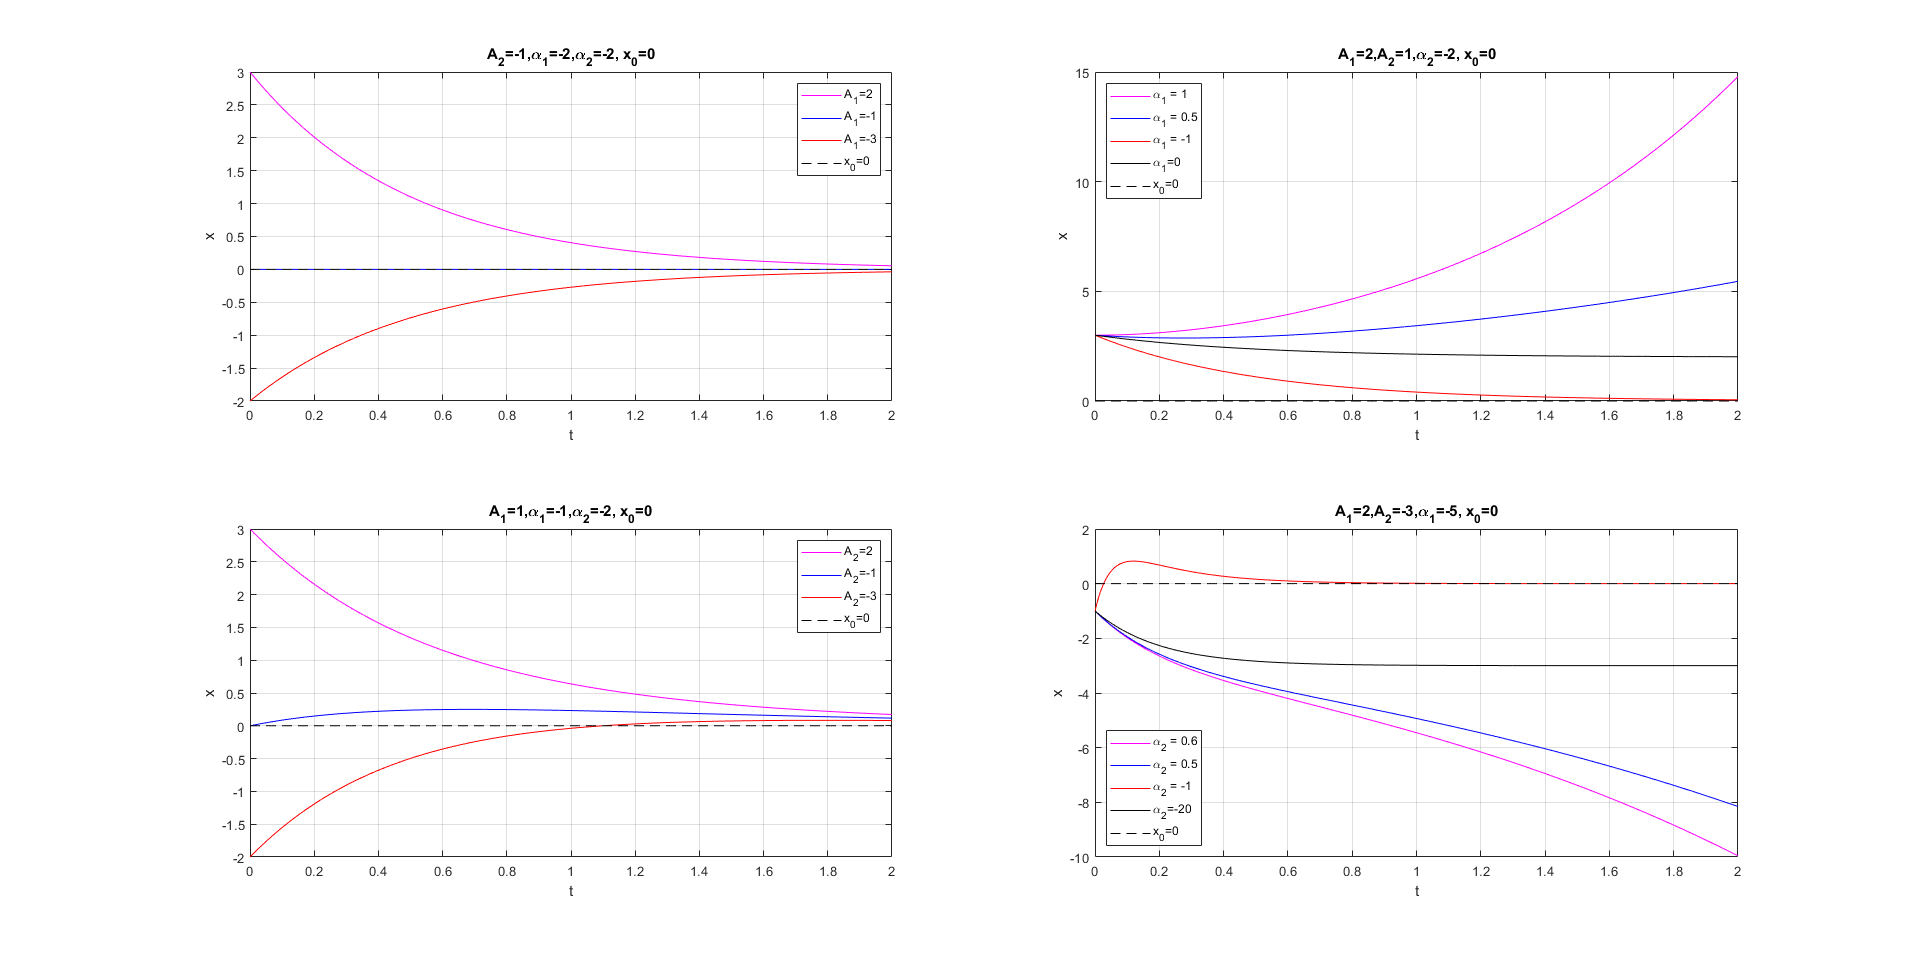
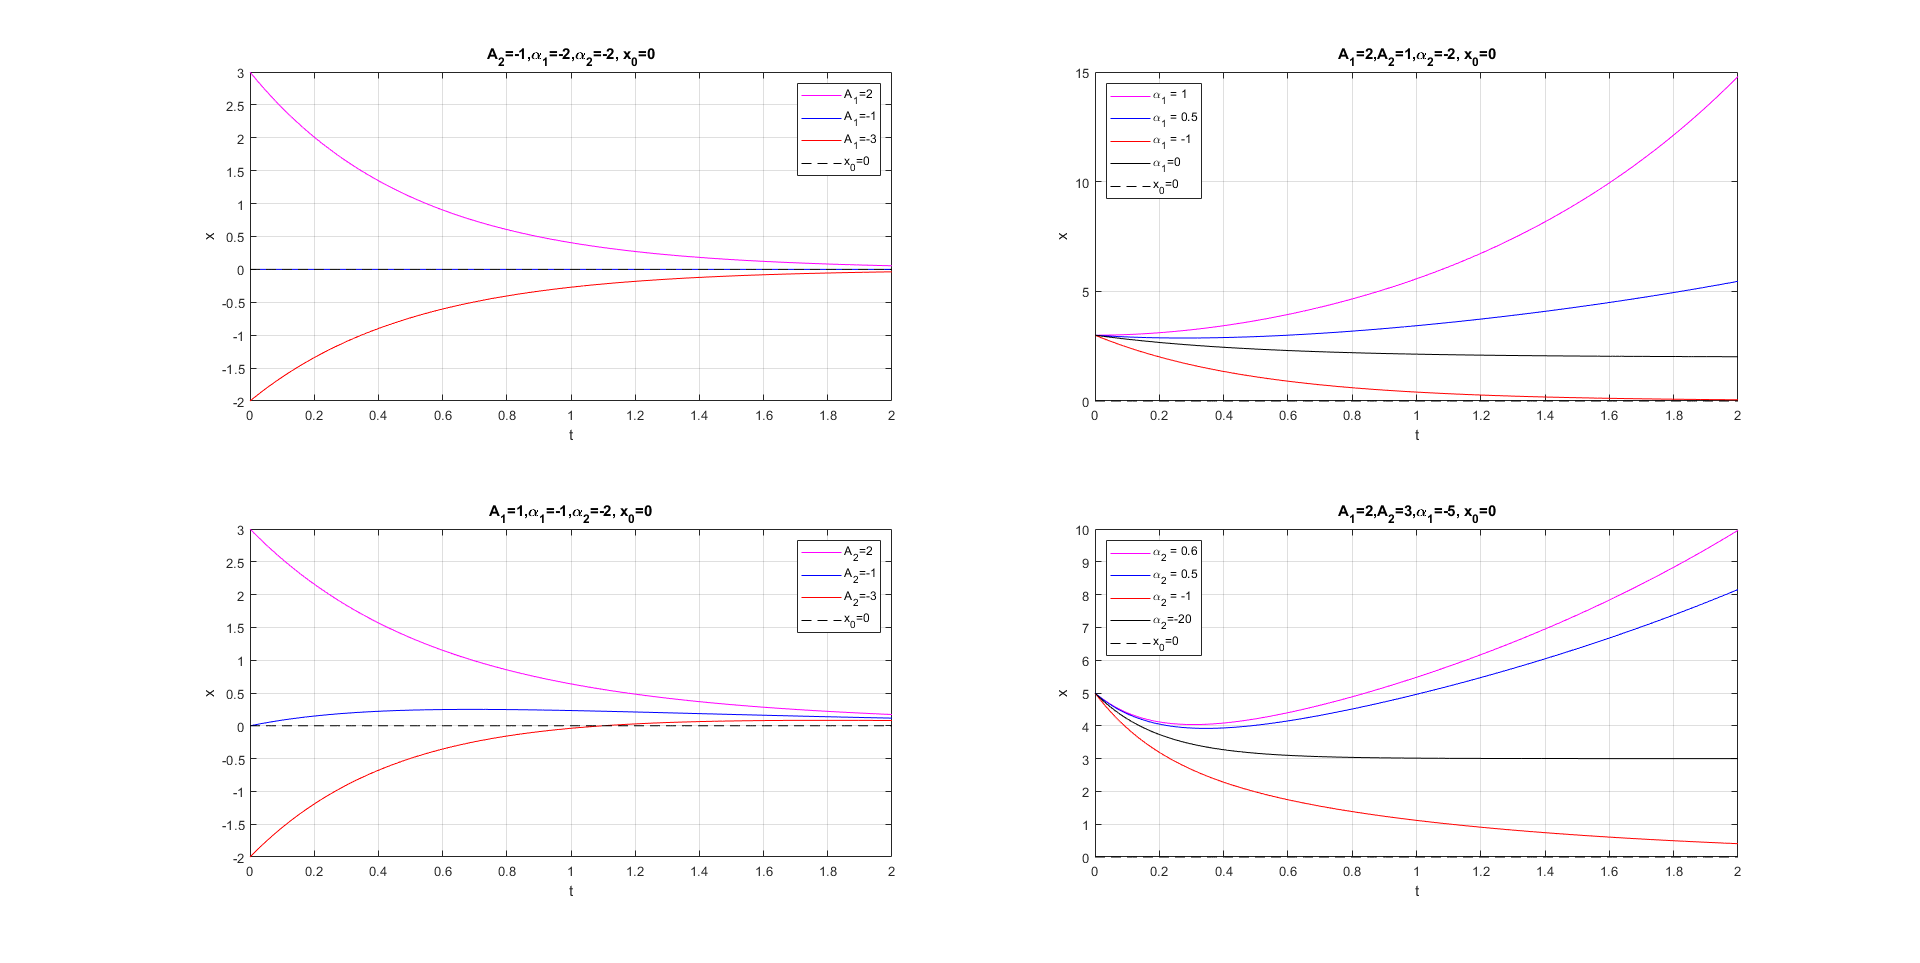
d skonczone

diff --git a/LAB4/Sprawko2/d_.m b/LAB4/Sprawko2/d_.m
@@ -1,0 +1,204 @@
+clear;
+close all;
+
+
+%x_sz=A1*exp(a1*t)+A2*exp(a2*t)*cos(wt+phi)+x0;
+x_sz=0:0.001:2;
+A1=1;
+A2=1;
+a1=-2;
+a2=-2;
+w=10;
+phi=0;
+t=0:0.001:2;
+xw=0;
+%Dla uproszczenie odczytywania wykresu xw=0
+
+
+
+
+
+
+%11111111111111111111111111111111111111111111111111
+
+%A1A1A1A1A1A1A1A1A1A1A1A1A1A1A1A1A1A1A1A1A1A1A1
+subplot(2,2,1);
+A1=2;
+w=40;
+for i=1:1:(length(t))
+    x_sz(i)=A1*exp(a1*t(i))+A2*exp(a2*t(i))*cos(w*t(i)+phi)+xw;
+end
+plot(t,x_sz,'m-');
+hold on;
+%%%%%%%%%%%%%%%%%%%%%%%%%%%%%%%%%%%%%%%%%%%%%%%%
+A1=-1;
+for i=1:1:(length(t))
+    x_sz(i)=A1*exp(a1*t(i))+A2*exp(a2*t(i))*cos(w*t(i)+phi)+xw;
+end
+plot(t,x_sz,'b-');
+%%%%%%%%%%%%%%%%%%%%%%%%%%%%%%%%%%%%%%%%%%%%%%%%
+A1=-3;
+for i=1:1:(length(t))
+    x_sz(i)=A1*exp(a1*t(i))+A2*exp(a2*t(i))*cos(w*t(i)+phi)+xw;
+end
+plot(t,x_sz,'r-');
+%%%%%%%%%%%%%%%%%%%%%%%%%%%%%%%%%%%%%%%%%%%%%%%%
+A1=0;
+for i=1:1:(length(t))
+    x_sz(i)=xw;
+end
+plot(t,x_sz,'k--');
+%%%%%%%%%%%%%%%%%%%%%%%%%%%%%%%%%%%%%%%%%%%%%%%%
+title('A_{2}=-1,\alpha_{1}=-2,\alpha_{2}=-2,\omega=40,\phi=0, x_{0}=0');
+legend('A_{1}=2','A_{1}=-1','A_{1}=-3','x_{0}=0');
+xlabel('t');
+ylabel('x');
+grid on;
+%%%%%%%%%%%%%%%%%%%%%%%%%%%%%%%%%%%%%%%%%%%%%%%%
+
+
+
+%a1a1a1a1a1a1a1a1a1a1a1a1a1a1a1a1a1a1a1a1a1a1a1a
+subplot(2,2,2);
+A1=2;
+w=20;
+a1=1;
+for i=1:1:(length(t))
+    x_sz(i)=A1*exp(a1*t(i))+A2*exp(a2*t(i))*cos(w*t(i)+phi)+xw;
+end
+plot(t,x_sz,'m-');
+hold on;
+%%%%%%%%%%%%%%%%%%%%%%%%%%%%%%%%%%%%%%%%%%%%%%%%
+a1=0.5;
+for i=1:1:(length(t))
+    x_sz(i)=A1*exp(a1*t(i))+A2*exp(a2*t(i))*cos(w*t(i)+phi)+xw;
+end
+plot(t,x_sz,'b-');
+hold on;
+%%%%%%%%%%%%%%%%%%%%%%%%%%%%%%%%%%%%%%%%%%%%%%%%
+a1=-2;
+for i=1:1:(length(t))
+    x_sz(i)=A1*exp(a1*t(i))+A2*exp(a2*t(i))*cos(w*t(i)+phi)+xw;
+end
+plot(t,x_sz,'r-');
+%%%%%%%%%%%%%%%%%%%%%%%%%%%%%%%%%%%%%%%%%%%%%%%%
+a1=0;
+for i=1:1:(length(t))
+    x_sz(i)=A1*exp(a1*t(i))+A2*exp(a2*t(i))*cos(w*t(i)+phi)+xw;
+end
+plot(t,x_sz,'k-');
+%%%%%%%%%%%%%%%%%%%%%%%%%%%%%%%%%%%%%%%%%%%%%%%%
+A1=0;
+for i=1:1:(length(t))
+    x_sz(i)=xw;
+end
+plot(t,x_sz,'k--');
+title('A_{1}=2,A_{2}=1,\alpha_{2}=-2,\omega=20,\phi=0, x_{0}=0');
+legend({'\alpha_{1} = 1','\alpha_{1} = 0.5','\alpha_{1} = -1','\alpha_{1}=0','x_{0}=0'},'Location','northwest');
+xlabel('t');
+ylabel('x');
+grid on;
+%%%%%%%%%%%%%%%%%%%%%%%%%%%%%%%%%%%%%%%%%%%%%%%%
+
+w=10;
+
+
+
+%22222222222222222222222222222222222222222222222222
+
+%A2A2A2A2A2A2A2A2A2A2A2A2A2A2A2A2A2A2A2A2A2A2A2A2
+subplot(2,2,3);
+A1=1;
+a1=-1;
+A2=2;
+for i=1:1:(length(t))
+    x_sz(i)=A1*exp(a1*t(i))+A2*exp(a2*t(i))*cos(w*t(i)+phi)+xw;
+end
+plot(t,x_sz,'m-');
+hold on;
+%%%%%%%%%%%%%%%%%%%%%%%%%%%%%%%%%%%%%%%%%%%%%%%%
+A2=-1;
+for i=1:1:(length(t))
+    x_sz(i)=A1*exp(a1*t(i))+A2*exp(a2*t(i))*cos(w*t(i)+phi)+xw;
+end
+plot(t,x_sz,'b-');
+
+%%%%%%%%%%%%%%%%%%%%%%%%%%%%%%%%%%%%%%%%%%%%%%%%
+A2=-2;
+for i=1:1:(length(t))
+    x_sz(i)=A1*exp(a1*t(i))+A2*exp(a2*t(i))*cos(w*t(i)+phi)+xw;
+end
+plot(t,x_sz,'r-');
+%%%%%%%%%%%%%%%%%%%%%%%%%%%%%%%%%%%%%%%%%%%%%%%%
+for i=1:1:(length(t))
+    x_sz(i)=xw;
+end
+plot(t,x_sz,'k--');
+%%%%%%%%%%%%%%%%%%%%%%%%%%%%%%%%%%%%%%%%%%%%%%%%
+title('A_{1}=1,\alpha_{1}=-1,\alpha_{2}=-2,\omega=10,\phi=0, x_{0}=0');
+legend('A_{2}=2','A_{2}=-1','A_{2}=-2','x_{0}=0');
+xlabel('t');
+ylabel('x');
+grid on;
+%%%%%%%%%%%%%%%%%%%%%%%%%%%%%%%%%%%%%%%%%%%%%%%%
+
+
+
+
+
+
+
+
+%a2a2a2a2a2a2a2a2a2a2a2a2a2a2a2a2a2a2a2a2a2a2a2a2
+
+subplot(2,2,4);
+a1=-5;
+A1=2;
+A2=3;
+a2=0.6;
+for i=1:1:(length(t))
+    x_sz(i)=A1*exp(a1*t(i))+A2*exp(a2*t(i))*cos(w*t(i)+phi)+xw;
+end
+plot(t,x_sz,'m-');
+hold on;
+%%%%%%%%%%%%%%%%%%%%%%%%%%%%%%%%%%%%%%%%%%%%%%%%
+a2=0.5;
+for i=1:1:(length(t))
+    x_sz(i)=A1*exp(a1*t(i))+A2*exp(a2*t(i))*cos(w*t(i)+phi)+xw;
+end
+plot(t,x_sz,'b-');
+hold on;
+%%%%%%%%%%%%%%%%%%%%%%%%%%%%%%%%%%%%%%%%%%%%%%%%
+a2=-2;
+for i=1:1:(length(t))
+    x_sz(i)=A1*exp(a1*t(i))+A2*exp(a2*t(i))*cos(w*t(i)+phi)+xw;
+end
+plot(t,x_sz,'r-');
+%%%%%%%%%%%%%%%%%%%%%%%%%%%%%%%%%%%%%%%%%%%%%%%%
+a2=0;
+for i=1:1:(length(t))
+    x_sz(i)=A1*exp(a1*t(i))+A2*exp(a2*t(i))*cos(w*t(i)+phi)+xw;
+end
+plot(t,x_sz,'k-');
+%%%%%%%%%%%%%%%%%%%%%%%%%%%%%%%%%%%%%%%%%%%%%%%%
+A1=0;
+A2=0;
+for i=1:1:(length(t))
+    x_sz(i)=A1*exp(a1*t(i))+A2*exp(a2*t(i))*cos(w*t(i)+phi)+xw;
+end
+plot(t,x_sz,'k--');
+title('A_{1}=2,A_{2}=3,\alpha_{1}=-5,\omega=10,\phi=0, x_{0}=0');
+legend({'\alpha_{2} = 0.6','\alpha_{2} = 0.5','\alpha_{2} = -2','\alpha_{2}=-20','x_{0}=0'},'Location','southeast');
+xlabel('t');
+ylabel('x');
+grid on;
+%%%%%%%%%%%%%%%%%%%%%%%%%%%%%%%%%%%%%%%%%%%%%%%%
+
+
+
+
+
+
+
+
+

diff --git a/LAB4/Sprawko2/b_.m b/LAB4/Sprawko2/b_.m
@@ -55,7 +55,7 @@ grid on;
 %%%%%%%%%%%%%%%%%%%%%%%%%%%%%%%%%%%%%%%%%%%%%%%%
 xlabel('t');
 ylabel('x');
-title('a=-1,w=10,\phi=0,x_{0}=1');
+title('a=-1,\omega=10,\phi=0,x_{0}=1');
 legend('A=0','A=5','A=-5','x_{0}=1');
 %%%%%%%%%%%%%%%%%%%%%%%%%%%%%%%%%%%%%%%%%%%%%%%%
 
@@ -100,7 +100,7 @@ grid on;
 %%%%%%%%%%%%%%%%%%%%%%%%%%%%%%%%%%%%%%%%%%%%%%%%
 xlabel('t');
 ylabel('x');
-title('A=1,w=10,\phi=0,x_{0}=1');
+title('A=1,\omega=10,\phi=0,x_{0}=1');
 legend({'a=0','a=0.2','a=-0.9','x_{0}=1'},'Location','southeast');
 %%%%%%%%%%%%%%%%%%%%%%%%%%%%%%%%%%%%%%%%%%%%%%%%
 
@@ -145,8 +145,8 @@ grid on;
 %%%%%%%%%%%%%%%%%%%%%%%%%%%%%%%%%%%%%%%%%%%%%%%%
 xlabel('t');
 ylabel('x');
-title('A=1,a=-.5,\phi=0,x_{0}=1');
-legend('w=0','w=5.5','w=--5','x_{0}=1');
+title('A=1,a=-0.5,\phi=0,x_{0}=1');
+legend('\omega=0','\omega=5.5','\omega=-5','x_{0}=1');
 %%%%%%%%%%%%%%%%%%%%%%%%%%%%%%%%%%%%%%%%%%%%%%%%
 
 
@@ -191,7 +191,7 @@ grid on;
 %%%%%%%%%%%%%%%%%%%%%%%%%%%%%%%%%%%%%%%%%%%%%%%%
 xlabel('t');
 ylabel('x');
-title('A=1,a=-0.5,w=10,x_{0}=1');
+title('A=1,a=-0.5,\omega=10,x_{0}=1');
 legend('\phi=0','\phi=5','\phi=-3','x_{0}=1');
 %%%%%%%%%%%%%%%%%%%%%%%%%%%%%%%%%%%%%%%%%%%%%%%%
 t=0:0.001:8;

diff --git a/LAB4/Sprawko2/c_.m b/LAB4/Sprawko2/c_.m
@@ -151,7 +151,7 @@ grid on;
 subplot(2,2,4);
 a1=-5;
 A1=2;
-A2=-3;
+A2=3;
 a2=0.6;
 for i=1:1:(length(t))
     x_sz(i)=A1*exp(a1*t(i))+A2*exp(a2*t(i))+xw;
@@ -166,7 +166,7 @@ end
 plot(t,x_sz,'b-');
 hold on;
 %%%%%%%%%%%%%%%%%%%%%%%%%%%%%%%%%%%%%%%%%%%%%%%%
-a2=-20;
+a2=-1;
 for i=1:1:(length(t))
     x_sz(i)=A1*exp(a1*t(i))+A2*exp(a2*t(i))+xw;
 end
@@ -184,8 +184,8 @@ for i=1:1:(length(t))
     x_sz(i)=A1*exp(a1*t(i))+A2*exp(a2*t(i))+xw;
 end
 plot(t,x_sz,'k--');
-title('A_{1}=2,A_{2}=-3,\alpha_{1}=-5, x_{0}=0');
-legend({'\alpha_{2} = 0.6','\alpha_{2} = 0.5','\alpha_{2} = -1','\alpha_{2}=-20','x_{0}=0'},'Location','southwest');
+title('A_{1}=2,A_{2}=3,\alpha_{1}=-5, x_{0}=0');
+legend({'\alpha_{2} = 0.6','\alpha_{2} = 0.5','\alpha_{2} = -1','\alpha_{2}=-20','x_{0}=0'},'Location','northwest');
 xlabel('t');
 ylabel('x');
 grid on;
